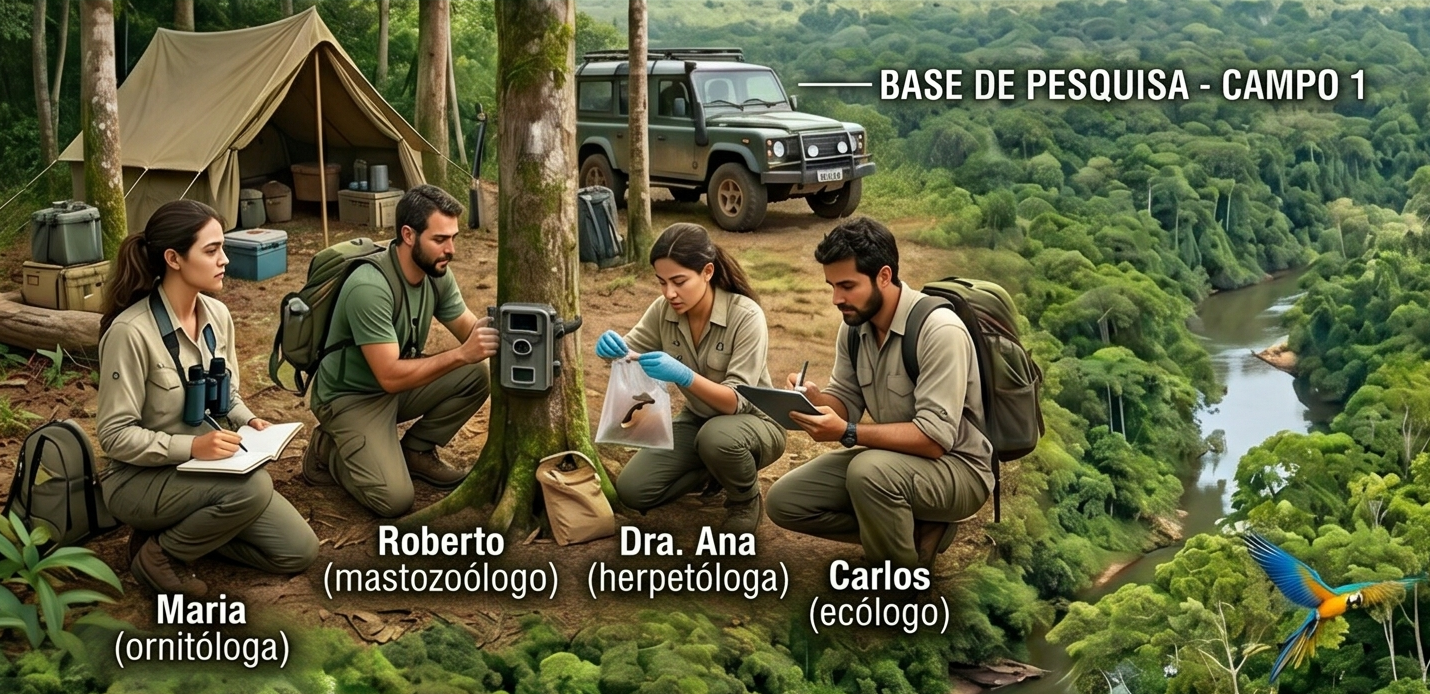
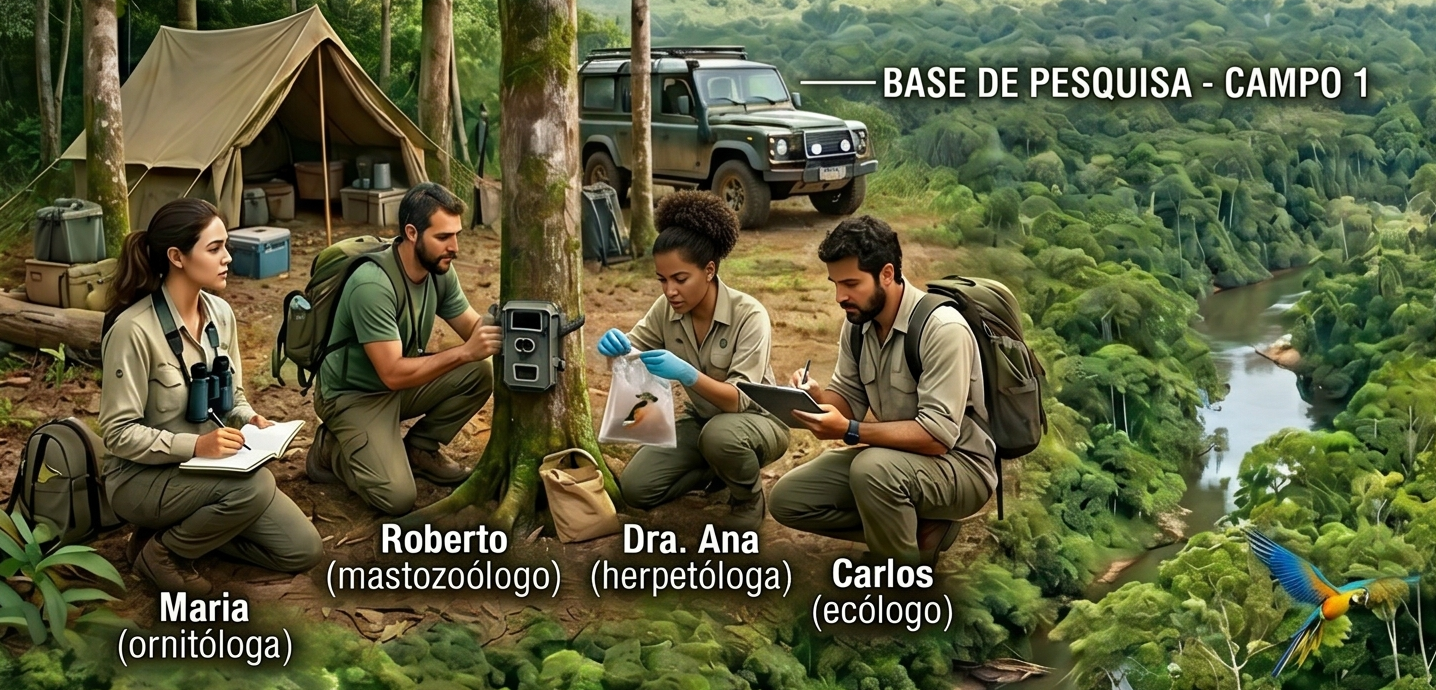
Organiza o HTML e o CSS, troca a imagem da equipe de pessoas biólogas por uma melhor.

Changed region(s): [[0.0, 0.0, 1.0, 1.0], [0.9846, 0.0609, 1.0, 0.0913]]

diff --git a/apresentacao/css/impress-demo.css b/apresentacao/css/impress-demo.css
@@ -30,7 +30,8 @@
 
     /* Escala tipográfica (px no espaço de design 1920x1080 do impress) */
     --fs-h1: 140px;
-    --fs-h1-menor: 100px;
+    --fs-h1-medio: 120px; /* títulos um pouco longos */
+    --fs-h1-menor: 100px; /* títulos bem longos */
     --fs-h2: 80px;
     --fs-h3: 70px;
     --fs-corpo: 30px; /* texto base dentro do cartão do slide */
@@ -210,7 +211,9 @@ a:focus {
         linear-gradient(rgba(255, 255, 255, 0.6), rgba(255, 255, 255, 0.6)),
         url("../images/cobra_loading.svg");
     background-repeat: no-repeat;
-    background-position: center, right bottom;
+    background-position:
+        center,
+        right bottom;
     background-size: auto, 25%;
 }
 
@@ -317,16 +320,29 @@ ul {
     width: 25%;
 }
 
+/* Capturas de tela de ferramentas (ruff, mypy) exibidas em tela cheia,
+   centralizadas no passo. (Antes eram estilos inline no <img>.) */
+.print-ferramenta {
+    position: absolute;
+    top: 50%;
+    left: 50%;
+    transform: translate(-50%, -50%);
+    width: 230%;
+}
+
 /* ============ 7. SLIDES DE CONTEÚDO (ORDEM DE APARIÇÃO) ================== */
 
-/* --- Compartilhado por vários slides ---
-   Parágrafos centrais de 70px usados por: paralelo, observação direta,
-   técnicas, revisão manual, análise estática e paralelo 2. Reunidos num único
-   seletor para não repetir a regra. (Em #paralelo, o text-align não afeta os
-   <span> inline — o alinhamento das colunas é feito nas células, mais abaixo.) */
+/* --- Parágrafos centrais (compartilhado por vários slides) ---
+   O corpo de texto central de 70px, centralizado, usado pela maioria dos slides
+   de conteúdo. Reunido num único seletor para não repetir a regra.
+   (Em #paralelo o text-align não afeta os <span> inline da tabela — o
+   alinhamento das colunas é feito nas células, mais abaixo; mas afeta os <p>.)
+   Ficam de fora: slides de imagem (sem <p>) e os de layout próprio
+   (fuzzing_02 e ia_02). Ao criar um novo slide de conteúdo, inclua o <p> aqui. */
 #paralelo span,
 #paralelo p,
 #observacao_direta p,
+#paralelo_2 p,
 #tecnicas p,
 #revisao_manual p,
 #analise_estatica p,
@@ -335,14 +351,9 @@ ul {
 #analise_baseada_em_ia_02 p,
 #ferramentas p,
 #ferramentas_analise_estatica_01 p,
-#ferramentas_analise_estatica_02 p,
-#ferramentas_analise_estatica_03 p,
 #ferramentas_fuzzing_01 p,
-#ferramentas_fuzzing_02 p,
 #ferramentas_ia_01 p,
-#ferramentas_ia_02 p,
-#ferramentas_ia_03 p,
-#paralelo_2 p {
+#ferramentas_ia_03 p {
     font-size: var(--fs-paragrafo);
     text-align: center;
     color: var(--cor-texto);
@@ -437,13 +448,13 @@ ul {
 /* Título longo: reduzido para caber. */
 #analise_baseada_em_ia_01 h1,
 #analise_baseada_em_ia_02 h1 {
-    font-size: 120px;
+    font-size: var(--fs-h1-medio);
 }
 
 /* --- ferramentas_revisao_manual (slide de código) --- */
 /* Título longo: reduzido para caber. */
 #ferramentas_revisao_manual h1 {
-    font-size: 120px;
+    font-size: var(--fs-h1-medio);
 }
 
 /* Sem a mascote aqui: código é o que menos tolera sobreposição. */
@@ -469,21 +480,41 @@ ul {
     font-family: var(--fonte-codigo);
 }
 
-#ferramentas_fuzzing_02 h1 {
-    text-align: right;
-    padding-right: 250px;
-    padding-top: 20px;
+/* --- ferramentas_fuzzing_02 (slide do lafleur) ---
+   O diagrama do ciclo do lafleur fica à esquerda (posição absoluta); o título e
+   a lista de etapas vão à direita, com recuo à direita para não sobrepor a
+   imagem. (Antes a imagem tinha estilo inline.) */
+#ferramentas_fuzzing_02 img {
+    position: absolute;
+    top: 50%;
+    left: 30%;
+    transform: translate(-50%, -50%);
+    width: 55%;
 }
 
-
+#ferramentas_fuzzing_02 h1,
 #ferramentas_fuzzing_02 p {
     text-align: right;
-    padding-right: 250px;
     padding-top: 20px;
+    padding-right: 250px;
 }
 
-#ferramentas_ia_02 span,
-#ferramentas_ia_03 span {
+#ferramentas_fuzzing_02 p {
+    font-size: var(--fs-paragrafo);
+    color: var(--cor-texto);
+}
+
+/* --- ferramentas_ia (família -review-toolkit) --- */
+/* Títulos repetidos e longos: tamanho menor, com respiro para o conteúdo. */
+#ferramentas_ia_01 h1,
+#ferramentas_ia_02 h1,
+#ferramentas_ia_03 h1 {
+    font-size: var(--fs-h1-menor);
+    padding-bottom: 30px;
+}
+
+/* Rótulo "Família -review-toolkit:" e a lista de toolkits (slide ia_02). */
+#ferramentas_ia_02 span {
     font-size: var(--fs-paragrafo);
     text-align: left;
     color: var(--cor-texto);
@@ -495,13 +526,6 @@ ul {
     color: var(--cor-texto);
     padding-top: var(--espaco-li);
     padding-left: var(--recuo-li);
-}
-
-#ferramentas_ia_01 h1,
-#ferramentas_ia_02 h1,
-#ferramentas_ia_03 h1 {
-    font-size: var(--fs-h1-menor);
-    padding-bottom: 30px;
 }
 
 /* --- fechamento --- */

diff --git a/apresentacao/espacial.html b/apresentacao/espacial.html
@@ -415,17 +415,25 @@
                 data-y="0"
                 data-scale="11"
             >
-                <img src="images/ruff.png" style="width: 230%; position:absolute; top: 50%; left: 50%; transform: translate(-50%, -50%);" alt="ruff">
+                <img
+                    class="print-ferramenta"
+                    src="images/ruff.png"
+                    alt="ruff"
+                />
             </div>
 
             <div
-                id="ferramentas_analise_estatica3"
+                id="ferramentas_analise_estatica_03"
                 class="step appear"
                 data-x="0"
                 data-y="0"
                 data-scale="11"
             >
-                <img src="images/mypy.png" style="width: 230%; position:absolute; top: 50%; left: 50%; transform: translate(-50%, -50%);" alt="mypy">
+                <img
+                    class="print-ferramenta"
+                    src="images/mypy.png"
+                    alt="mypy"
+                />
             </div>
 
             <div
@@ -449,7 +457,10 @@
                 data-scale="11"
             >
                 <h1>lafleur</h1>
-                <img src="images/lafleur.png" style="width: 55%; position:absolute; top: 50%; left: 30%; transform: translate(-50%, -50%);" alt="">
+                <img
+                    src="images/lafleur.png"
+                    alt="Diagrama do ciclo do lafleur"
+                />
                 <p>Seleção</p>
                 <p>Mutação</p>
                 <p>Execução</p>
